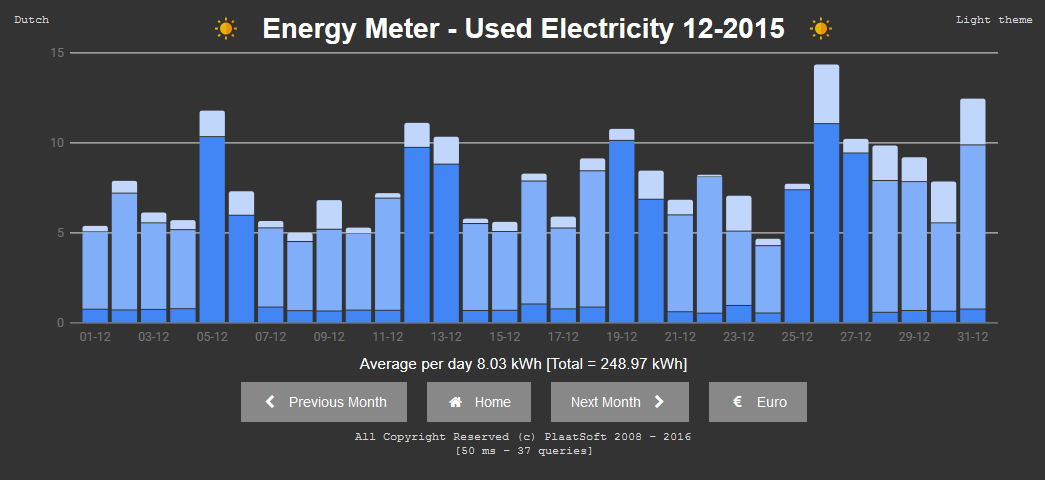
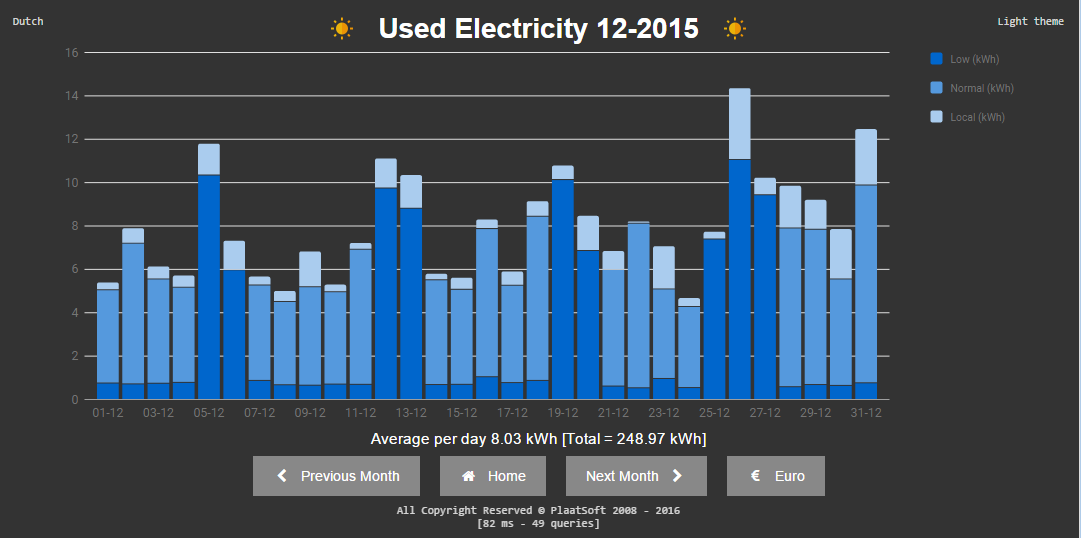
Update screenshots

diff --git a/doc/html/globals.html b/doc/html/globals.html
@@ -111,19 +111,21 @@
 , <a class="el" href="dutch_8inc.html#aa484b228e6d99bf5aeb80ab8a5f06725">dutch.inc</a>
 , <a class="el" href="english_8inc.html#aa55c067b43656dbb551b370ab177a75e">english.inc</a>
 , <a class="el" href="dutch_8inc.html#a29ac1b2c577130f557c90d89f23fb5c1">dutch.inc</a>
-, <a class="el" href="english_8inc.html#aaa87b0a147a94a159f1cd0c667f1c3b3">english.inc</a>
+, <a class="el" href="english_8inc.html#a988371299d6881874bcdf78e3bfa6157">english.inc</a>
 , <a class="el" href="dutch_8inc.html#a251dde6029d05849d5c67f243aa22bbb">dutch.inc</a>
-, <a class="el" href="english_8inc.html#a36983e1d35ad310e907f8f47d609fa0d">english.inc</a>
+, <a class="el" href="english_8inc.html#a7cb12ab8cf45fd8d5798e2b3752ad35d">english.inc</a>
 , <a class="el" href="dutch_8inc.html#a67ac366481f680c0293c0d586115f4c3">dutch.inc</a>
+, <a class="el" href="english_8inc.html#a36983e1d35ad310e907f8f47d609fa0d">english.inc</a>
+, <a class="el" href="dutch_8inc.html#aaf6092566519625c291914a9b8aa800e">dutch.inc</a>
 , <a class="el" href="english_8inc.html#ae14d2d958abb12097994e41284d2ccda">english.inc</a>
 , <a class="el" href="dutch_8inc.html#ac821e0aab6662eafd3154062a3bb7cac">dutch.inc</a>
 , <a class="el" href="english_8inc.html#a072665bc09be82d46b2d166160d1dd2e">english.inc</a>
 , <a class="el" href="dutch_8inc.html#a7857f954278f2cbbbc27276015e4eb27">dutch.inc</a>
 , <a class="el" href="english_8inc.html#a8d570ab8659a0026a487b961fc9e3579">english.inc</a>
-, <a class="el" href="dutch_8inc.html#a2685df5b7d7d937e6520b989e2576f24">dutch.inc</a>
-, <a class="el" href="english_8inc.html#a88fc72417e6230597cd900a1fa9360a7">english.inc</a>
 , <a class="el" href="dutch_8inc.html#adc6cf41982b5ae95f0cbbe0545ee72e0">dutch.inc</a>
-, <a class="el" href="english_8inc.html#a829b22c870f64895b56fa4db232b5665">english.inc</a>
+, <a class="el" href="english_8inc.html#a88fc72417e6230597cd900a1fa9360a7">english.inc</a>
+, <a class="el" href="dutch_8inc.html#a59a5de7c16aaf4b7f17b59f205358278">dutch.inc</a>
+, <a class="el" href="english_8inc.html#a251dde6029d05849d5c67f243aa22bbb">english.inc</a>
 , <a class="el" href="dutch_8inc.html#aaa87b0a147a94a159f1cd0c667f1c3b3">dutch.inc</a>
 , <a class="el" href="english_8inc.html#abdc5300e1fa3686dce1abc367a215f8a">english.inc</a>
 , <a class="el" href="dutch_8inc.html#abe1474eafaa6b08f7a800b5923140ccd">dutch.inc</a>
@@ -158,7 +160,7 @@
 : <a class="el" href="day__in__kwh__edit_8php.html#aaa897489333057a3a3c16eaaf7ab6dbd">day_in_kwh_edit.php</a>
 </li>
 <li>$note
-: <a class="el" href="release__notes_8php.html#a34067d6d282eab1e5b24728b5f66cbe7">release_notes.php</a>
+: <a class="el" href="release__notes_8php.html#acd3f66e992f2d1390c22f2a0bd0a4e55">release_notes.php</a>
 </li>
 <li>$out_forecast
 : <a class="el" href="general_8inc.html#ace851fe74cf25a198b198650dfc15f71">general.inc</a>
@@ -167,8 +169,8 @@
 : <a class="el" href="index_8php.html#ad8934bf4a60120ca28c9dec5290bc370">index.php</a>
 </li>
 <li>$password
-: <a class="el" href="settings_8php.html#a607686ef9f99ea7c42f4f3dd3dbb2b0d">settings.php</a>
-, <a class="el" href="home_8php.html#a607686ef9f99ea7c42f4f3dd3dbb2b0d">home.php</a>
+: <a class="el" href="home_8php.html#a607686ef9f99ea7c42f4f3dd3dbb2b0d">home.php</a>
+, <a class="el" href="settings_8php.html#a607686ef9f99ea7c42f4f3dd3dbb2b0d">settings.php</a>
 </li>
 <li>$pid
 : <a class="el" href="index_8php.html#a9b726f748a2135350f7d86668cc058ee">index.php</a>
@@ -189,6 +191,9 @@
 : <a class="el" href="home_8php.html#afd3ed68281bdf5f354790975727f1d94">home.php</a>
 , <a class="el" href="cron_8php.html#afd3ed68281bdf5f354790975727f1d94">cron.php</a>
 </li>
+<li>$solar_meter_vendor
+: <a class="el" href="home_8php.html#a6b6c8edad042fa7b5c6fba83ed71262b">home.php</a>
+</li>
 <li>$sql
 : <a class="el" href="settings_8php.html#a047170d6020a882807665812a27e2525">settings.php</a>
 </li>
@@ -205,8 +210,8 @@
 : <a class="el" href="cron_8php.html#a77f9b5c7480ad8fa3231d311d4b6feb3">cron.php</a>
 </li>
 <li>$time_start
-: <a class="el" href="cron_8php.html#a44d4a5ef593dd745482e1f2adb2f7774">cron.php</a>
-, <a class="el" href="index_8php.html#a44d4a5ef593dd745482e1f2adb2f7774">index.php</a>
+: <a class="el" href="index_8php.html#a44d4a5ef593dd745482e1f2adb2f7774">index.php</a>
+, <a class="el" href="cron_8php.html#a44d4a5ef593dd745482e1f2adb2f7774">cron.php</a>
 </li>
 <li>$token
 : <a class="el" href="index_8php.html#a00ae4fcafb1145f5e968bdf920f83e2e">index.php</a>
@@ -215,8 +220,8 @@
 : <a class="el" href="settings_8php.html#a0f298096f322952a72a50f98a74c7b60">settings.php</a>
 </li>
 <li>$weather_station_present
-: <a class="el" href="cron_8php.html#a41f627722f3296876c2e4c50c30a550e">cron.php</a>
-, <a class="el" href="home_8php.html#a3149330a668d2ab64fd7e69ac0729ce5">home.php</a>
+: <a class="el" href="home_8php.html#a3149330a668d2ab64fd7e69ac0729ce5">home.php</a>
+, <a class="el" href="cron_8php.html#a41f627722f3296876c2e4c50c30a550e">cron.php</a>
 </li>
 </ul>
 </div><!-- contents -->

diff --git a/doc/html/globals_vars.html b/doc/html/globals_vars.html
@@ -105,19 +105,21 @@
 , <a class="el" href="dutch_8inc.html#aa484b228e6d99bf5aeb80ab8a5f06725">dutch.inc</a>
 , <a class="el" href="english_8inc.html#aa55c067b43656dbb551b370ab177a75e">english.inc</a>
 , <a class="el" href="dutch_8inc.html#a29ac1b2c577130f557c90d89f23fb5c1">dutch.inc</a>
-, <a class="el" href="english_8inc.html#aaa87b0a147a94a159f1cd0c667f1c3b3">english.inc</a>
+, <a class="el" href="english_8inc.html#a988371299d6881874bcdf78e3bfa6157">english.inc</a>
 , <a class="el" href="dutch_8inc.html#a251dde6029d05849d5c67f243aa22bbb">dutch.inc</a>
-, <a class="el" href="english_8inc.html#a36983e1d35ad310e907f8f47d609fa0d">english.inc</a>
+, <a class="el" href="english_8inc.html#a7cb12ab8cf45fd8d5798e2b3752ad35d">english.inc</a>
 , <a class="el" href="dutch_8inc.html#a67ac366481f680c0293c0d586115f4c3">dutch.inc</a>
+, <a class="el" href="english_8inc.html#a36983e1d35ad310e907f8f47d609fa0d">english.inc</a>
+, <a class="el" href="dutch_8inc.html#aaf6092566519625c291914a9b8aa800e">dutch.inc</a>
 , <a class="el" href="english_8inc.html#ae14d2d958abb12097994e41284d2ccda">english.inc</a>
 , <a class="el" href="dutch_8inc.html#ac821e0aab6662eafd3154062a3bb7cac">dutch.inc</a>
 , <a class="el" href="english_8inc.html#a072665bc09be82d46b2d166160d1dd2e">english.inc</a>
 , <a class="el" href="dutch_8inc.html#a7857f954278f2cbbbc27276015e4eb27">dutch.inc</a>
 , <a class="el" href="english_8inc.html#a8d570ab8659a0026a487b961fc9e3579">english.inc</a>
-, <a class="el" href="dutch_8inc.html#a2685df5b7d7d937e6520b989e2576f24">dutch.inc</a>
-, <a class="el" href="english_8inc.html#a88fc72417e6230597cd900a1fa9360a7">english.inc</a>
 , <a class="el" href="dutch_8inc.html#adc6cf41982b5ae95f0cbbe0545ee72e0">dutch.inc</a>
-, <a class="el" href="english_8inc.html#a829b22c870f64895b56fa4db232b5665">english.inc</a>
+, <a class="el" href="english_8inc.html#a88fc72417e6230597cd900a1fa9360a7">english.inc</a>
+, <a class="el" href="dutch_8inc.html#a59a5de7c16aaf4b7f17b59f205358278">dutch.inc</a>
+, <a class="el" href="english_8inc.html#a251dde6029d05849d5c67f243aa22bbb">english.inc</a>
 , <a class="el" href="dutch_8inc.html#aaa87b0a147a94a159f1cd0c667f1c3b3">dutch.inc</a>
 , <a class="el" href="english_8inc.html#abdc5300e1fa3686dce1abc367a215f8a">english.inc</a>
 , <a class="el" href="dutch_8inc.html#abe1474eafaa6b08f7a800b5923140ccd">dutch.inc</a>
@@ -152,7 +154,7 @@
 : <a class="el" href="day__in__kwh__edit_8php.html#aaa897489333057a3a3c16eaaf7ab6dbd">day_in_kwh_edit.php</a>
 </li>
 <li>$note
-: <a class="el" href="release__notes_8php.html#a34067d6d282eab1e5b24728b5f66cbe7">release_notes.php</a>
+: <a class="el" href="release__notes_8php.html#acd3f66e992f2d1390c22f2a0bd0a4e55">release_notes.php</a>
 </li>
 <li>$out_forecast
 : <a class="el" href="general_8inc.html#ace851fe74cf25a198b198650dfc15f71">general.inc</a>
@@ -161,8 +163,8 @@
 : <a class="el" href="index_8php.html#ad8934bf4a60120ca28c9dec5290bc370">index.php</a>
 </li>
 <li>$password
-: <a class="el" href="settings_8php.html#a607686ef9f99ea7c42f4f3dd3dbb2b0d">settings.php</a>
-, <a class="el" href="home_8php.html#a607686ef9f99ea7c42f4f3dd3dbb2b0d">home.php</a>
+: <a class="el" href="home_8php.html#a607686ef9f99ea7c42f4f3dd3dbb2b0d">home.php</a>
+, <a class="el" href="settings_8php.html#a607686ef9f99ea7c42f4f3dd3dbb2b0d">settings.php</a>
 </li>
 <li>$pid
 : <a class="el" href="index_8php.html#a9b726f748a2135350f7d86668cc058ee">index.php</a>
@@ -183,6 +185,9 @@
 : <a class="el" href="home_8php.html#afd3ed68281bdf5f354790975727f1d94">home.php</a>
 , <a class="el" href="cron_8php.html#afd3ed68281bdf5f354790975727f1d94">cron.php</a>
 </li>
+<li>$solar_meter_vendor
+: <a class="el" href="home_8php.html#a6b6c8edad042fa7b5c6fba83ed71262b">home.php</a>
+</li>
 <li>$sql
 : <a class="el" href="settings_8php.html#a047170d6020a882807665812a27e2525">settings.php</a>
 </li>
@@ -199,8 +204,8 @@
 : <a class="el" href="cron_8php.html#a77f9b5c7480ad8fa3231d311d4b6feb3">cron.php</a>
 </li>
 <li>$time_start
-: <a class="el" href="cron_8php.html#a44d4a5ef593dd745482e1f2adb2f7774">cron.php</a>
-, <a class="el" href="index_8php.html#a44d4a5ef593dd745482e1f2adb2f7774">index.php</a>
+: <a class="el" href="index_8php.html#a44d4a5ef593dd745482e1f2adb2f7774">index.php</a>
+, <a class="el" href="cron_8php.html#a44d4a5ef593dd745482e1f2adb2f7774">cron.php</a>
 </li>
 <li>$token
 : <a class="el" href="index_8php.html#a00ae4fcafb1145f5e968bdf920f83e2e">index.php</a>
@@ -209,8 +214,8 @@
 : <a class="el" href="settings_8php.html#a0f298096f322952a72a50f98a74c7b60">settings.php</a>
 </li>
 <li>$weather_station_present
-: <a class="el" href="cron_8php.html#a41f627722f3296876c2e4c50c30a550e">cron.php</a>
-, <a class="el" href="home_8php.html#a3149330a668d2ab64fd7e69ac0729ce5">home.php</a>
+: <a class="el" href="home_8php.html#a3149330a668d2ab64fd7e69ac0729ce5">home.php</a>
+, <a class="el" href="cron_8php.html#a41f627722f3296876c2e4c50c30a550e">cron.php</a>
 </li>
 </ul>
 </div><!-- contents -->

diff --git a/doc/html/dutch_8inc.html b/doc/html/dutch_8inc.html
@@ -87,7 +87,7 @@ Variables</h2></td></tr>
 <tr class="separator:a2073bca31a30b63fff5fc8eed317d71b"><td class="memSeparator" colspan="2">&#160;</td></tr>
 <tr class="memitem:afd977a473bb256557d5b69b3b3dd394c"><td class="memItemLeft" align="right" valign="top">&#160;</td><td class="memItemRight" valign="bottom"><a class="el" href="dutch_8inc.html#afd977a473bb256557d5b69b3b3dd394c">$lang</a> ['USED_HIGH_KWH'] = 'Normaal (kWh)'</td></tr>
 <tr class="separator:afd977a473bb256557d5b69b3b3dd394c"><td class="memSeparator" colspan="2">&#160;</td></tr>
-<tr class="memitem:aaacb4d7ddcd83be564d41cf26c92dcfe"><td class="memItemLeft" align="right" valign="top">&#160;</td><td class="memItemRight" valign="bottom"><a class="el" href="dutch_8inc.html#aaacb4d7ddcd83be564d41cf26c92dcfe">$lang</a> ['USED_LOCAL_KWH'] = 'Solar (kWh)'</td></tr>
+<tr class="memitem:aaacb4d7ddcd83be564d41cf26c92dcfe"><td class="memItemLeft" align="right" valign="top">&#160;</td><td class="memItemRight" valign="bottom"><a class="el" href="dutch_8inc.html#aaacb4d7ddcd83be564d41cf26c92dcfe">$lang</a> ['USED_LOCAL_KWH'] = 'Lokaal (kWh)'</td></tr>
 <tr class="separator:aaacb4d7ddcd83be564d41cf26c92dcfe"><td class="memSeparator" colspan="2">&#160;</td></tr>
 <tr class="memitem:a21d3f3372c8c0b1a97af88e4475892e2"><td class="memItemLeft" align="right" valign="top">&#160;</td><td class="memItemRight" valign="bottom"><a class="el" href="dutch_8inc.html#a21d3f3372c8c0b1a97af88e4475892e2">$lang</a> ['USED_KWH'] = 'Afgenomen (kWh)'</td></tr>
 <tr class="separator:a21d3f3372c8c0b1a97af88e4475892e2"><td class="memSeparator" colspan="2">&#160;</td></tr>
@@ -95,7 +95,7 @@ Variables</h2></td></tr>
 <tr class="separator:a411ad9cfeb3bfb6a6e687ad477838b49"><td class="memSeparator" colspan="2">&#160;</td></tr>
 <tr class="memitem:a64b8b0931a02faddcadfeca6204e5e45"><td class="memItemLeft" align="right" valign="top">&#160;</td><td class="memItemRight" valign="bottom"><a class="el" href="dutch_8inc.html#a64b8b0931a02faddcadfeca6204e5e45">$lang</a> ['DELIVERED_HIGH_KWH'] = 'Normaal (kWh)'</td></tr>
 <tr class="separator:a64b8b0931a02faddcadfeca6204e5e45"><td class="memSeparator" colspan="2">&#160;</td></tr>
-<tr class="memitem:ad9aca6a2bd82f9fefc22ea9214f4fc7b"><td class="memItemLeft" align="right" valign="top">&#160;</td><td class="memItemRight" valign="bottom"><a class="el" href="dutch_8inc.html#ad9aca6a2bd82f9fefc22ea9214f4fc7b">$lang</a> ['DELIVERED_LOCAL_KWH'] = 'Solar (kWh)'</td></tr>
+<tr class="memitem:ad9aca6a2bd82f9fefc22ea9214f4fc7b"><td class="memItemLeft" align="right" valign="top">&#160;</td><td class="memItemRight" valign="bottom"><a class="el" href="dutch_8inc.html#ad9aca6a2bd82f9fefc22ea9214f4fc7b">$lang</a> ['DELIVERED_LOCAL_KWH'] = 'Lokaal (kWh)'</td></tr>
 <tr class="separator:ad9aca6a2bd82f9fefc22ea9214f4fc7b"><td class="memSeparator" colspan="2">&#160;</td></tr>
 <tr class="memitem:a3473f14134b30c676524867b2ccca5eb"><td class="memItemLeft" align="right" valign="top">&#160;</td><td class="memItemRight" valign="bottom"><a class="el" href="dutch_8inc.html#a3473f14134b30c676524867b2ccca5eb">$lang</a> ['DELIVERED_KWH'] = 'Geleverd (kWh)'</td></tr>
 <tr class="separator:a3473f14134b30c676524867b2ccca5eb"><td class="memSeparator" colspan="2">&#160;</td></tr>
@@ -584,7 +584,7 @@ Variables</h2></td></tr>
 <div class="memproto">
       <table class="memname">
         <tr>
-          <td class="memname">$lang['USED_LOCAL_KWH'] = 'Solar (kWh)'</td>
+          <td class="memname">$lang['USED_LOCAL_KWH'] = 'Lokaal (kWh)'</td>
         </tr>
       </table>
 </div><div class="memdoc">
@@ -632,7 +632,7 @@ Variables</h2></td></tr>
 <div class="memproto">
       <table class="memname">
         <tr>
-          <td class="memname">$lang['DELIVERED_LOCAL_KWH'] = 'Solar (kWh)'</td>
+          <td class="memname">$lang['DELIVERED_LOCAL_KWH'] = 'Lokaal (kWh)'</td>
         </tr>
       </table>
 </div><div class="memdoc">

diff --git a/doc/html/home_8php.html b/doc/html/home_8php.html
@@ -84,6 +84,8 @@ Functions</h2></td></tr>
 Variables</h2></td></tr>
 <tr class="memitem:afd3ed68281bdf5f354790975727f1d94"><td class="memItemLeft" align="right" valign="top">&#160;</td><td class="memItemRight" valign="bottom"><a class="el" href="home_8php.html#afd3ed68281bdf5f354790975727f1d94">$solar_meter_present</a> = <a class="el" href="database_8inc.html#a2e58557a74b7a7b32cb9e97ba7cadc18">plaatenergy_db_get_config_item</a>('solar_meter_present')</td></tr>
 <tr class="separator:afd3ed68281bdf5f354790975727f1d94"><td class="memSeparator" colspan="2">&#160;</td></tr>
+<tr class="memitem:a6b6c8edad042fa7b5c6fba83ed71262b"><td class="memItemLeft" align="right" valign="top">&#160;</td><td class="memItemRight" valign="bottom"><a class="el" href="home_8php.html#a6b6c8edad042fa7b5c6fba83ed71262b">$solar_meter_vendor</a> = <a class="el" href="database_8inc.html#a2e58557a74b7a7b32cb9e97ba7cadc18">plaatenergy_db_get_config_item</a>('solar_meter_vendor')</td></tr>
+<tr class="separator:a6b6c8edad042fa7b5c6fba83ed71262b"><td class="memSeparator" colspan="2">&#160;</td></tr>
 <tr class="memitem:a3149330a668d2ab64fd7e69ac0729ce5"><td class="memItemLeft" align="right" valign="top">&#160;</td><td class="memItemRight" valign="bottom"><a class="el" href="home_8php.html#a3149330a668d2ab64fd7e69ac0729ce5">$weather_station_present</a> = <a class="el" href="database_8inc.html#a2e58557a74b7a7b32cb9e97ba7cadc18">plaatenergy_db_get_config_item</a>('weather_station_present')</td></tr>
 <tr class="separator:a3149330a668d2ab64fd7e69ac0729ce5"><td class="memSeparator" colspan="2">&#160;</td></tr>
 <tr class="memitem:a7f4e3e3c39ea806e52527994f0ccc653"><td class="memItemLeft" align="right" valign="top">&#160;</td><td class="memItemRight" valign="bottom"><a class="el" href="home_8php.html#a7f4e3e3c39ea806e52527994f0ccc653">$energy_meter_present</a> = <a class="el" href="database_8inc.html#a2e58557a74b7a7b32cb9e97ba7cadc18">plaatenergy_db_get_config_item</a>('energy_meter_present')</td></tr>
@@ -245,6 +247,18 @@ Variables</h2></td></tr>
       <table class="memname">
         <tr>
           <td class="memname">$solar_meter_present = <a class="el" href="database_8inc.html#a2e58557a74b7a7b32cb9e97ba7cadc18">plaatenergy_db_get_config_item</a>('solar_meter_present')</td>
+        </tr>
+      </table>
+</div><div class="memdoc">
+
+</div>
+</div>
+<a class="anchor" id="a6b6c8edad042fa7b5c6fba83ed71262b"></a>
+<div class="memitem">
+<div class="memproto">
+      <table class="memname">
+        <tr>
+          <td class="memname">$solar_meter_vendor = <a class="el" href="database_8inc.html#a2e58557a74b7a7b32cb9e97ba7cadc18">plaatenergy_db_get_config_item</a>('solar_meter_vendor')</td>
         </tr>
       </table>
 </div><div class="memdoc">

diff --git a/doc/html/release__notes_8php.html b/doc/html/release__notes_8php.html
@@ -132,7 +132,7 @@ Variables</h2></td></tr>
         </tr>
       </table>
 </div><div class="memdoc">
-<b>Initial value:</b><div class="fragment"><div class="line">= <span class="stringliteral">&#39;&lt;div class=&quot;subparagraph&quot;&gt;Version 0.9 (25-02-2016)&lt;/div&gt;</span></div><div class="line"><span class="stringliteral">&lt;div class=&quot;large_text&quot;&gt;</span></div><div class="line"><span class="stringliteral">&lt;ul&gt;</span></div><div class="line"><span class="stringliteral">&lt;li&gt;General: Added option to select solar meter vendor.&lt;/li&gt;</span></div><div class="line"><span class="stringliteral">&lt;li&gt;General: Improve theme and language hyperlink.&lt;/li&gt;</span></div><div class="line"><span class="stringliteral">&lt;li&gt;General: Added very basic home password feature.&lt;/li&gt;</span></div><div class="line"><span class="stringliteral">&lt;li&gt;General: Added very basic setting password feature.&lt;/li&gt;</span></div><div class="line"><span class="stringliteral">&lt;li&gt;General: If database connection fails, user is informed.&lt;/li&gt;</span></div><div class="line"><span class="stringliteral">&lt;/ul&gt;</span></div><div class="line"><span class="stringliteral">&lt;/div&gt;&#39;</span></div></div><!-- fragment -->
+<b>Initial value:</b><div class="fragment"><div class="line">= <span class="stringliteral">&#39;&lt;div class=&quot;subparagraph&quot;&gt;Version 0.9 (25-02-2016)&lt;/div&gt;</span></div><div class="line"><span class="stringliteral">&lt;div class=&quot;large_text&quot;&gt;</span></div><div class="line"><span class="stringliteral">&lt;ul&gt;</span></div><div class="line"><span class="stringliteral">&lt;li&gt;General: Redesign deliverable charts  (Now they are more flexible).&lt;/li&gt;</span></div><div class="line"><span class="stringliteral">&lt;li&gt;General: Added option to select solar meter vendor.&lt;/li&gt;</span></div><div class="line"><span class="stringliteral">&lt;li&gt;General: Improve theme and language hyperlink.&lt;/li&gt;</span></div><div class="line"><span class="stringliteral">&lt;li&gt;General: Added very basic home password feature.&lt;/li&gt;</span></div><div class="line"><span class="stringliteral">&lt;li&gt;General: Added very basic setting password feature.&lt;/li&gt;</span></div><div class="line"><span class="stringliteral">&lt;li&gt;General: If database connection fails, user is informed.&lt;/li&gt;</span></div><div class="line"><span class="stringliteral">&lt;/ul&gt;</span></div><div class="line"><span class="stringliteral">&lt;/div&gt;&#39;</span></div></div><!-- fragment -->
 </div>
 </div>
 <a class="anchor" id="a3fd64b20bc2e4a76e20319d4953dcff4"></a>

diff --git a/src/report.php b/src/report.php
@@ -69,7 +69,13 @@ function plaatenergy_export_event() {
 		$csv .=  '"'.$row->date.'";';
 		$csv .=  '"'.plaatenergy_round($row->low_used,2).'";';
 		$csv .=  '"'.plaatenergy_round($row->normal_used,2).'";';
-		$csv .=  '"'.plaatenergy_round($row->solar_delivered-$row->low_delivered-$row->normal_delivered,2).'";';
+		
+		$tmp = $row->solar-$row->dalterug-$row->piekterug;
+		if ($tmp<0) {
+			$tmp=0;
+		}
+		
+		$csv .=  '"'.plaatenergy_round($tmp,2).'";';
 		$csv .=  '"'.plaatenergy_round($row->gas_used,2).'";';
 		$csv .=  '"'.plaatenergy_round($row->low_delivered,2).'";';
 		$csv .=  '"'.plaatenergy_round($row->normal_delivered,2).'";';
@@ -96,15 +102,20 @@ function plaatenergy_report_event() {
 		 
 		$sql  = 'select sum(dal) as dal, sum(piek) as piek, sum(dalterug) as dalterug, sum(piekterug) as piekterug, ';
 		$sql .= 'sum(solar) as solar, sum(gas) as gas FROM energy_day where date>="'.$start.'" and date<="'.$end.'"';
-	
+			
 		$result = plaatenergy_db_query($sql);
 		$row = plaatenergy_db_fetch_object($result);
 	
+		$tmp = $row->solar-$row->dalterug-$row->piekterug;
+		if ($tmp<0) {
+			$tmp=0;
+		}
+		
 		$page  =  '&Sigma; '.t('TAG_LOW_USED').' = '.plaatenergy_round($row->dal,2).' '.t('KWH');
 		$page .=  '<br/>';
 		$page .=  '&Sigma; '.t('TAG_NORMAL_USED').' = '.plaatenergy_round($row->piek,2).' '.t('KWH');
 		$page .=  '<br/>';
-		$page .=  '&Sigma; '.t('TAG_SOLAR_USED').' = '.plaatenergy_round($row->solar-$row->dalterug-$row->piekterug,2).' '.t('KWH');
+		$page .=  '&Sigma; '.t('TAG_SOLAR_USED').' = '.plaatenergy_round($tmp,2).' '.t('KWH');
 		$page .=  '<br/>';
 		$page .=  '&Sigma; '.t('TAG_GAS_USED').' = '.plaatenergy_round($row->gas,2).' '.t('M3');
 		$page .=  '<br/>';
